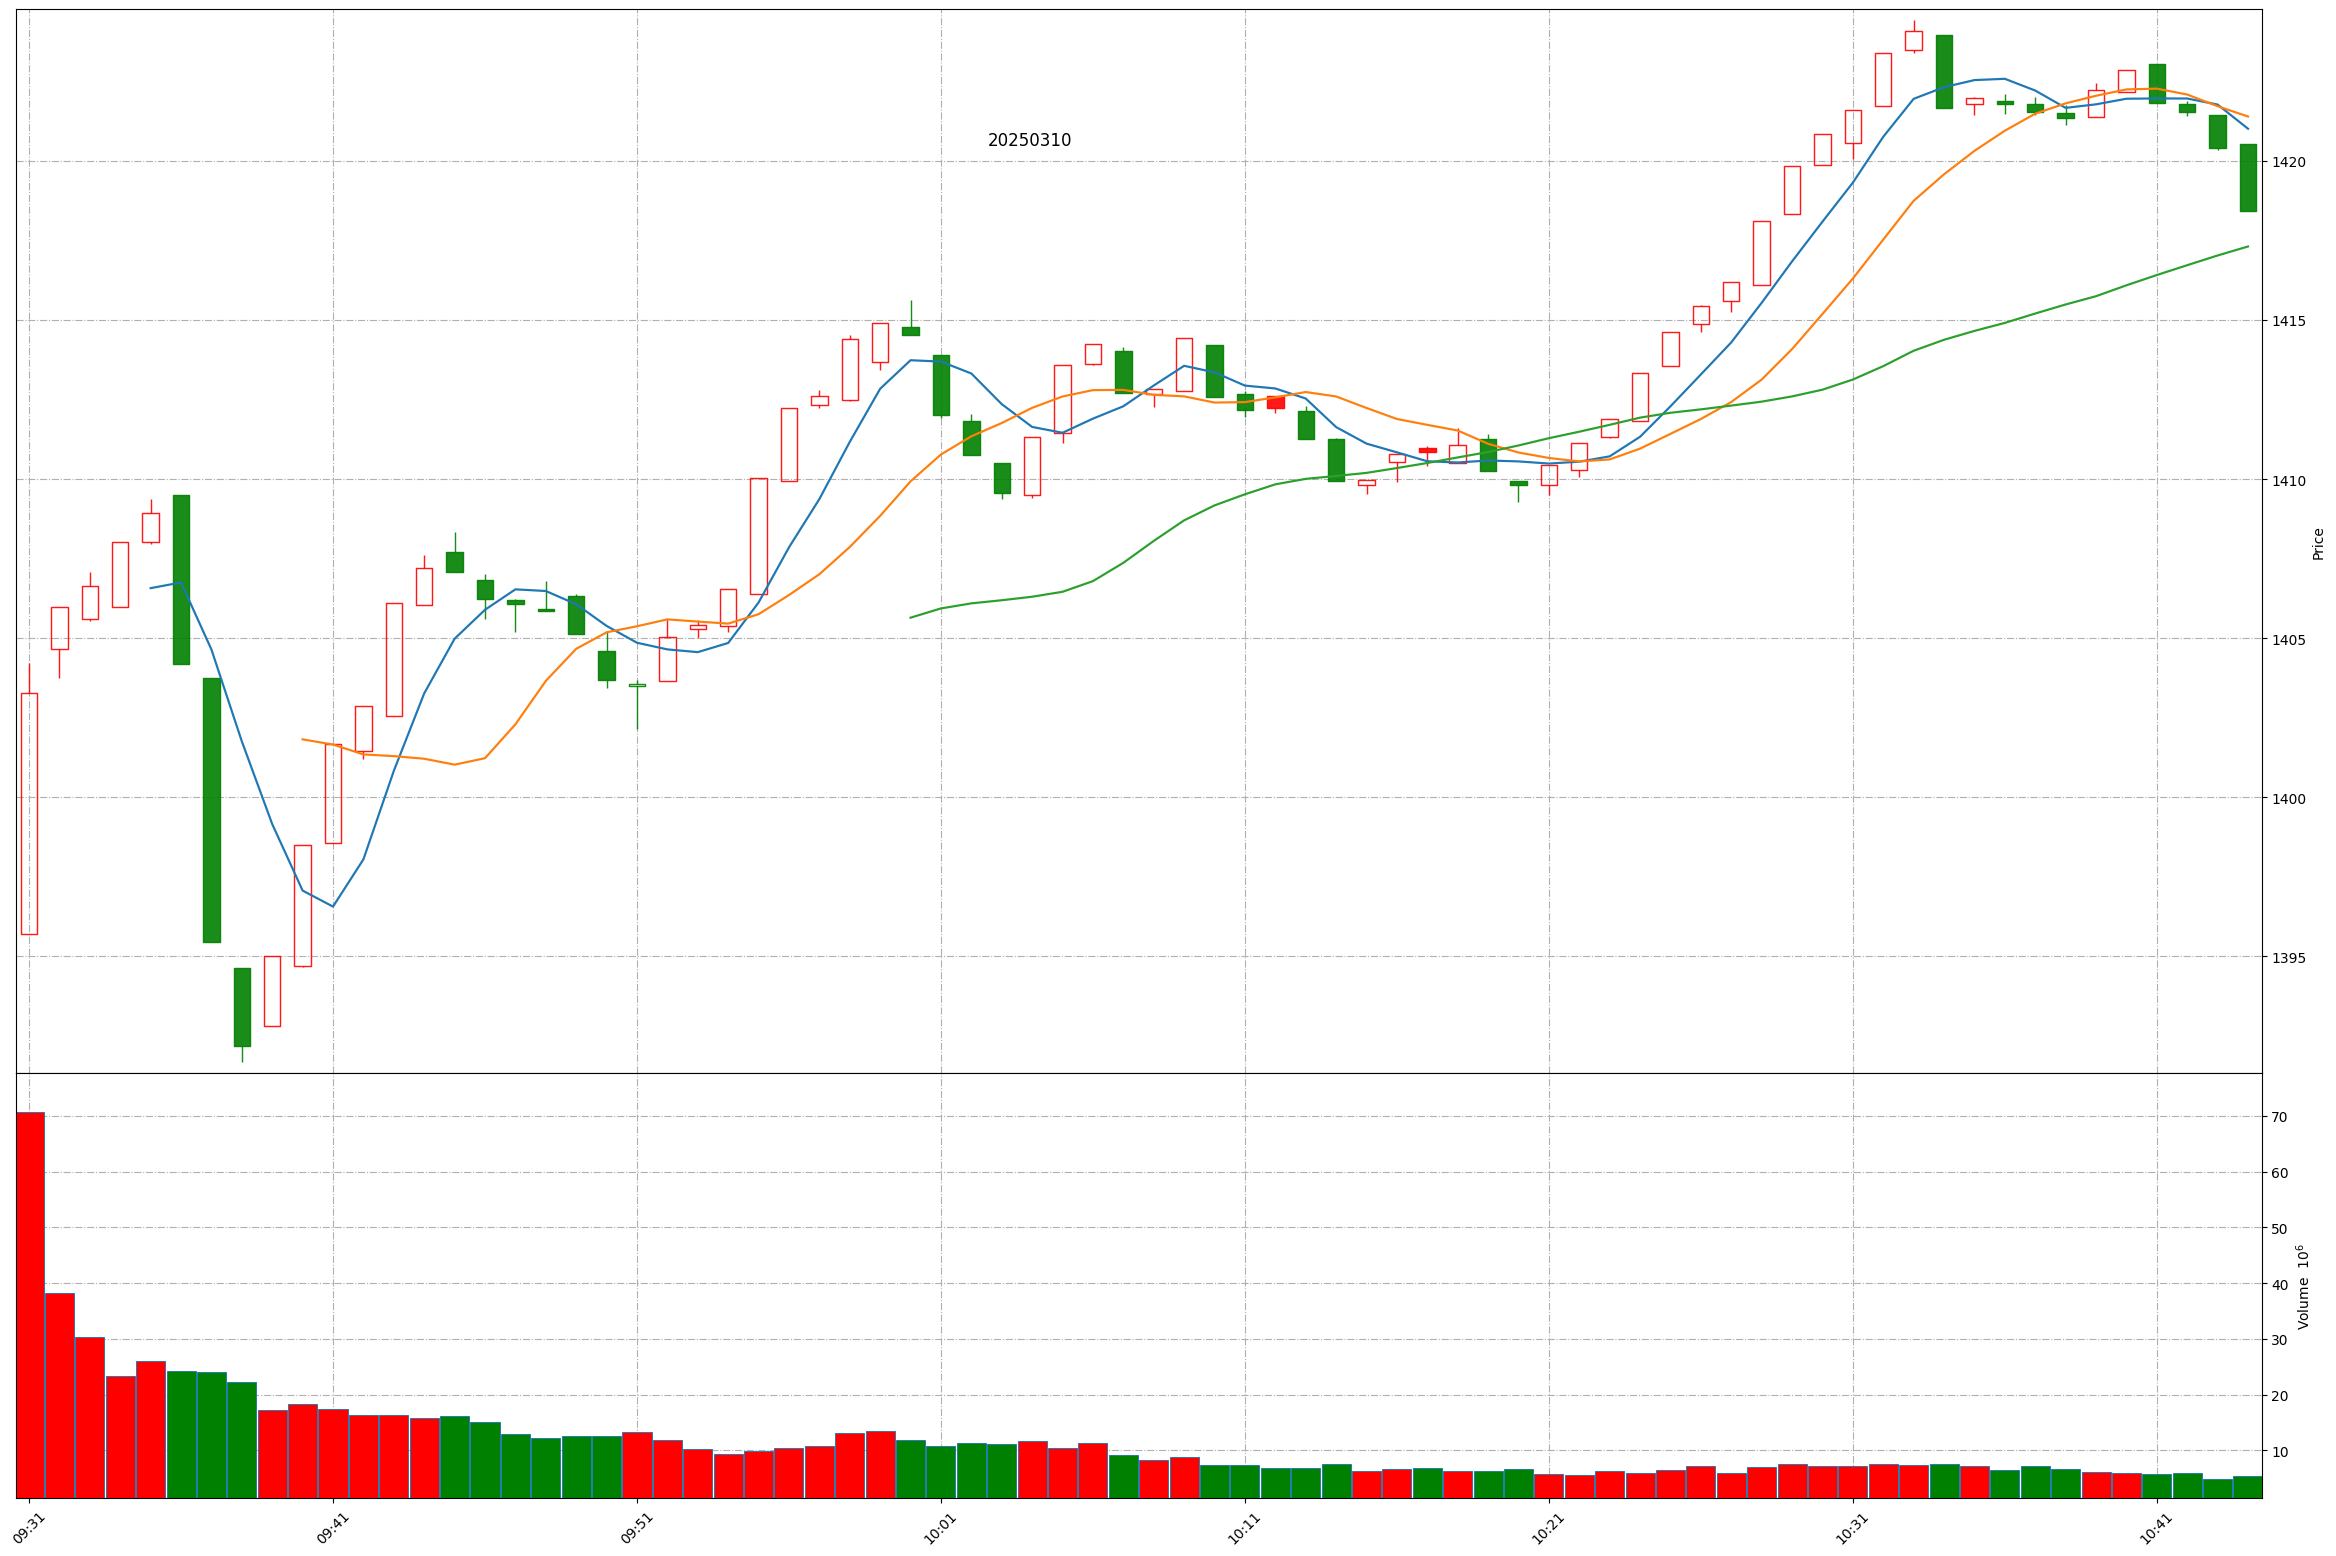
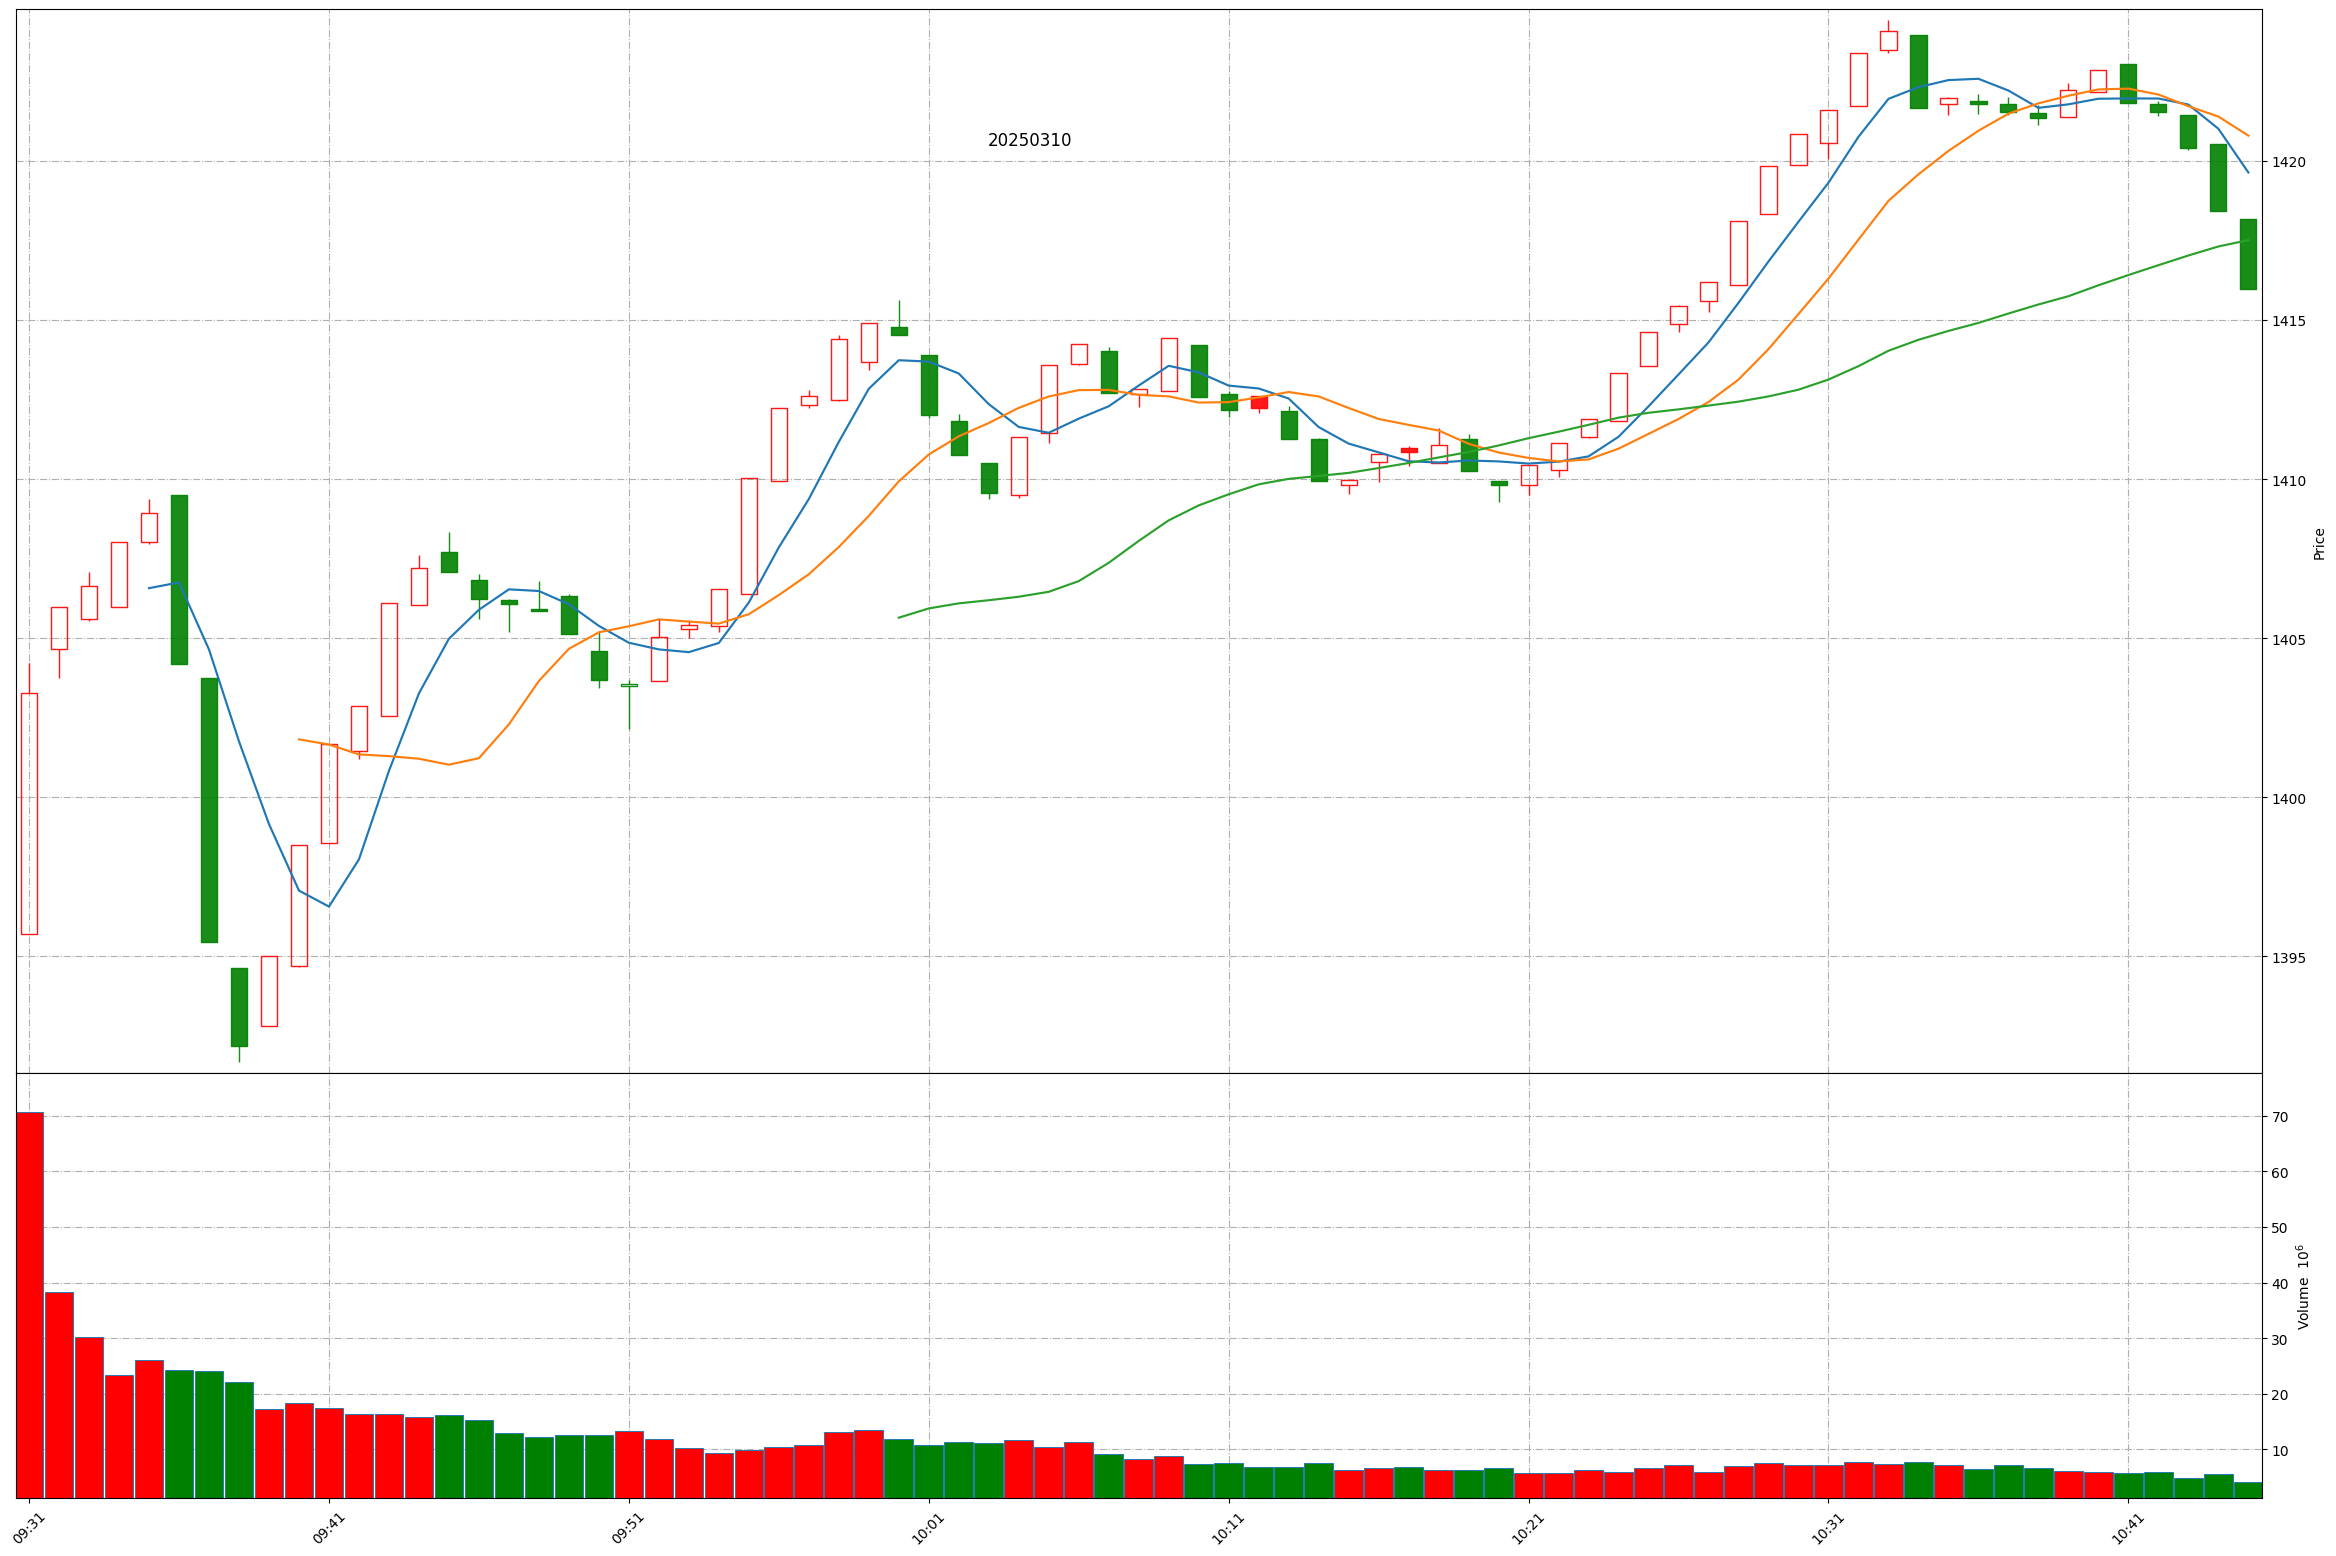
Github action update at 2025-03-10 10:45:12.

diff --git a/README.md b/README.md
@@ -1,11 +1,11 @@
 
 # Daily-A-share-market-quotes 每日 A 股指数（5min 更新）- 20250310
 
-### 上证指数 20250310 10:44
+### 上证指数 20250310 10:45
 ![](./fig/2025/3/20250310-sh000001.png)
 
-### 深证成指 20250310 10:44
+### 深证成指 20250310 10:45
 ![](./fig/2025/3/20250310-sz399001.png)
 
-### 北证50 20250310 10:44
+### 北证50 20250310 10:45
 ![](./fig/2025/3/20250310-bj899050.png)
